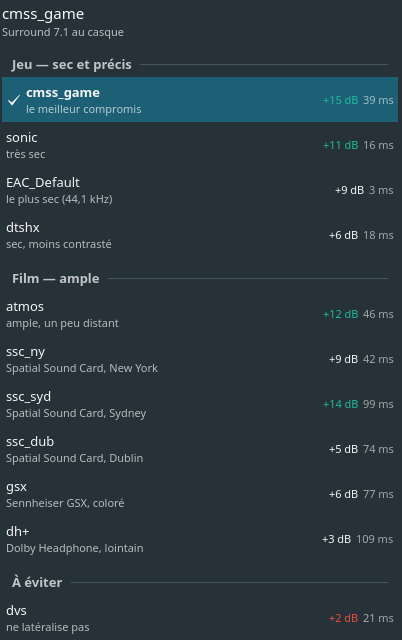
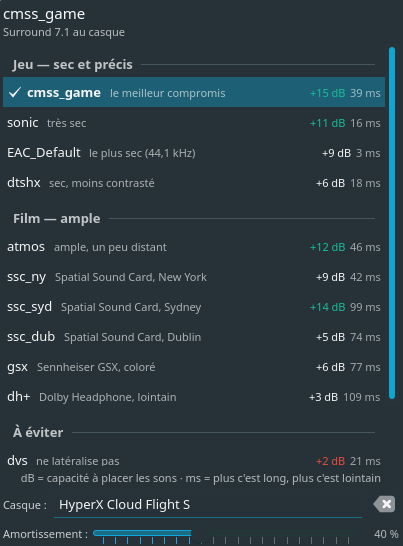
docs : capture d'ecran de l'applet en 0.4.0
L'ancienne montrait les lignes empilees et n'avait ni selecteur de casque
ni reglage de reverberation. La nouvelle rend compte de l'etat reel :
profils groupes par usage sur une ligne chacun, correction de casque en
texte plein, curseur d'amortissement.

Claude-Session: https://claude.ai/code/session_01WSiFXcwCtkSpbVoPvrLWj2

Changed region(s): [[0.0, 0.0, 1.0, 0.9963], [0.8358, 0.9341, 0.8955, 0.9963], [0.7761, 0.7161, 0.8358, 0.7473]]

diff --git a/README.fr.md b/README.fr.md
@@ -11,7 +11,7 @@ dans le système, chaque enceinte virtuelle est convoluée par une paire de rép
 impulsionnelles (HRIR) mesurées, et le résultat est mixé en stéréo pour le casque.
 
 <p align="center">
-  <img src="docs/applet.png" alt="L'applet Plasma listant les profils avec leurs mesures" width="380">
+  <img src="docs/applet.png" alt="L'applet Plasma : profils groupés par usage avec leurs mesures, sélecteur de correction de casque et réglage de réverbération" width="380">
 </p>
 
 ## Ce que ça fait concrètement

diff --git a/README.md b/README.md
@@ -11,7 +11,7 @@ system, each virtual speaker is convolved with a pair of measured head-related
 impulse responses (HRIR), and the result is mixed down to stereo for headphones.
 
 <p align="center">
-  <img src="docs/applet.png" alt="The Plasma applet listing profiles with their measurements" width="380">
+  <img src="docs/applet.png" alt="The Plasma applet: profiles grouped by use case with their measurements, headphone correction picker and reverberation control" width="380">
 </p>
 
 ## What it actually does
